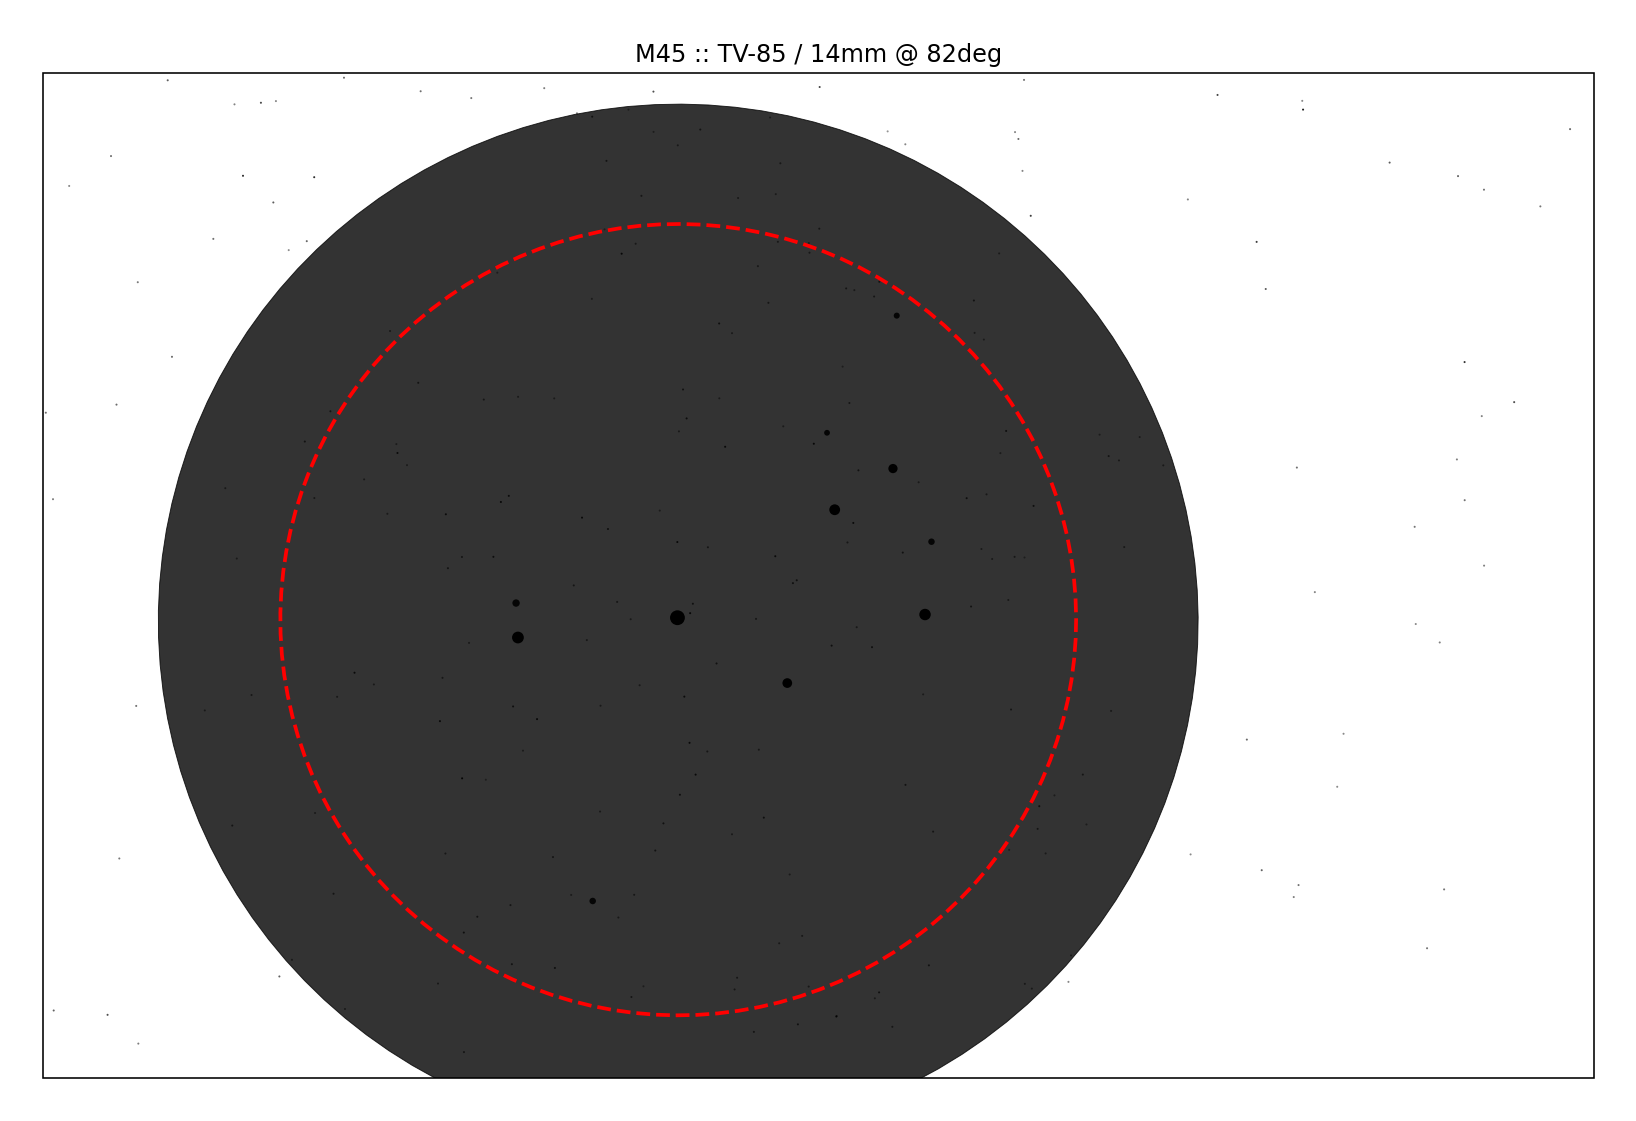
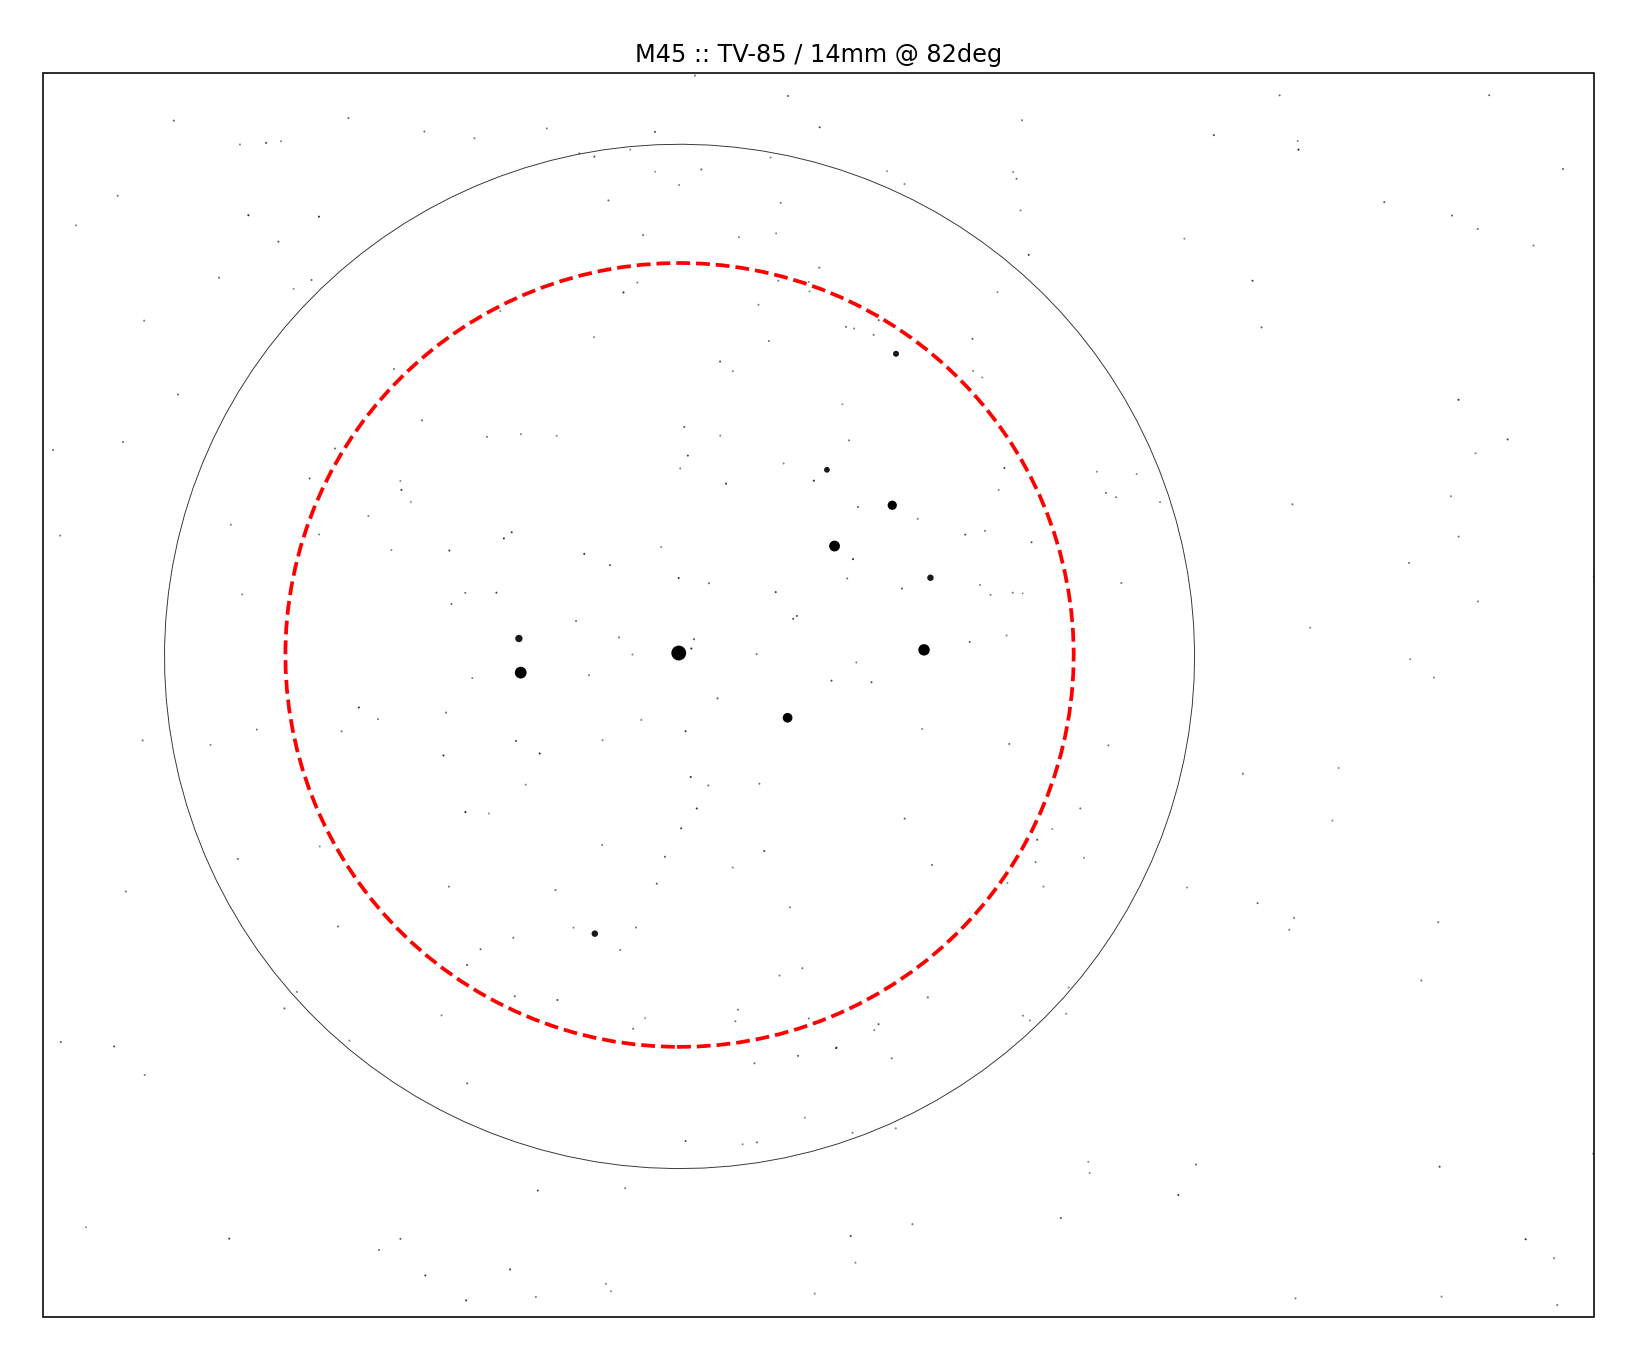
fix polygon fill color from marker

diff --git a/src/starplot/styles/base.py b/src/starplot/styles/base.py
@@ -12,7 +12,10 @@ from typing_extensions import Annotated
 
 
 ColorStr = Annotated[
-    Color, PlainSerializer(lambda c: c.as_hex() if c else None, return_type=str)
+    Color,
+    PlainSerializer(
+        lambda c: c.as_hex() if c and c != "none" else None, return_type=str
+    ),
 ]
 
 
@@ -139,7 +142,7 @@ class MarkerStyle(BaseStyle):
         ```
     """
 
-    color: ColorStr = ColorStr("#000")
+    color: Optional[ColorStr] = ColorStr("#000")
     """Fill color of marker. Can be a hex, rgb, hsl, or word string."""
 
     edge_color: Optional[ColorStr] = ColorStr("#000")
@@ -165,7 +168,7 @@ class MarkerStyle(BaseStyle):
 
     def matplot_kwargs(self, size_multiplier: float = 1.0) -> dict:
         return dict(
-            color=self.color.as_hex(),
+            color=self.color.as_hex() if self.color else "none",
             markeredgecolor=self.edge_color.as_hex() if self.edge_color else "none",
             marker=self.symbol,
             markersize=self.size * size_multiplier * FONT_SCALE,
@@ -269,6 +272,7 @@ class PolygonStyle(BaseStyle):
         styles = dict(
             edgecolor=self.edge_color.as_hex() if self.edge_color else "none",
             facecolor=self.fill_color.as_hex() if self.fill_color else "none",
+            fill=True if self.fill_color else False,
             linewidth=self.edge_width * size_multiplier,
             linestyle=self.line_style,
             alpha=self.alpha,

diff --git a/tests/test_map.py b/tests/test_map.py
@@ -184,8 +184,8 @@ def test_map_plot_scope_bino_fov():
     p.ax.set_title("M45 :: TV-85 / 14mm @ 82deg, 10x binos @ 65deg")
     p.export(filename, padding=0.3)
 
-    assert dhash(filename) == "0e96aa4d4daa92cc"
-    assert colorhash(filename) in ["07200038000", "07200030000"]
+    assert dhash(filename) == "0e86aaccccaa96cc"
+    assert colorhash(filename) == "07400038000"
 
 
 def test_map_plot_custom_stars():
@@ -211,7 +211,7 @@ def test_map_plot_custom_stars():
     )
     p.export(filename, padding=0.3)
 
-    assert dhash(filename) == "1ca9298eae2e048a"
+    assert dhash(filename) == "1dab2b8eae2e840a"
     assert colorhash(filename) == "07000000000"
 
 
@@ -234,7 +234,7 @@ def test_map_plot_wrapping():
         resolution=2000,
     ).export(filename, padding=0.3)
 
-    assert dhash(filename) == "1f1e0f4747211117"
+    assert dhash(filename) == "1f1e0f4743211117"
     assert colorhash(filename) == "07000000000"
 
 
@@ -277,5 +277,5 @@ def test_map_mollweide():
         resolution=3000,
     ).export(filename, padding=0.1)
 
-    assert dhash(filename) == "0f2979633b330f06"
+    assert dhash(filename) == "0f2971633b330f06"
     assert colorhash(filename) == "07000000000"

diff --git a/src/starplot/map.py b/src/starplot/map.py
@@ -425,11 +425,14 @@ class MapPlot(StarPlot):
         if mw.empty:
             return
 
+        style_kwargs = self.style.milky_way.matplot_kwargs(
+            size_multiplier=self._size_multiplier
+        )
+        style_kwargs.pop("fill", None)
+
         mw.plot(
             ax=self.ax,
-            **self.style.milky_way.matplot_kwargs(
-                size_multiplier=self._size_multiplier
-            ),
+            **style_kwargs,
             transform=self._plate_carree,
         )
 
@@ -722,7 +725,9 @@ class MapPlot(StarPlot):
                     min_ax_degrees = maj_ax_degrees
 
                 poly_style = PolygonStyle(
-                    fill_color=style.marker.color.as_hex(),
+                    fill_color=style.marker.color.as_hex()
+                    if style.marker.color
+                    else None,
                     edge_color=style.marker.edge_color.as_hex(),
                     alpha=style.marker.alpha,
                     zorder=style.marker.zorder,

diff --git a/examples/examples.py b/examples/examples.py
@@ -4,7 +4,9 @@ import subprocess
 
 for n in range(1, 8):
     subprocess.call(f"python example_{n:02}.py", shell=True)
-    subprocess.call(f"cp {n:02}*.png ../docs/images/examples/example_{n:02}.png", shell=True)
+    subprocess.call(
+        f"cp {n:02}*.png ../docs/images/examples/example_{n:02}.png", shell=True
+    )
 
 # subprocess.call("python example_2.py", shell=True)
 # subprocess.call("cp 02*.png ../docs/images/example_2.png", shell=True)

diff --git a/examples/example_04.py b/examples/example_04.py
@@ -11,8 +11,8 @@ p = MapPlot(
     projection=Projection.STEREO_NORTH,
     ra_min=54.5 / 15,
     ra_max=58.5 / 15,
-    dec_min=23,
-    dec_max=25.4,
+    dec_min=22.5,
+    dec_max=25.5,
     limiting_magnitude=12,
     style=style,
     resolution=1400,
